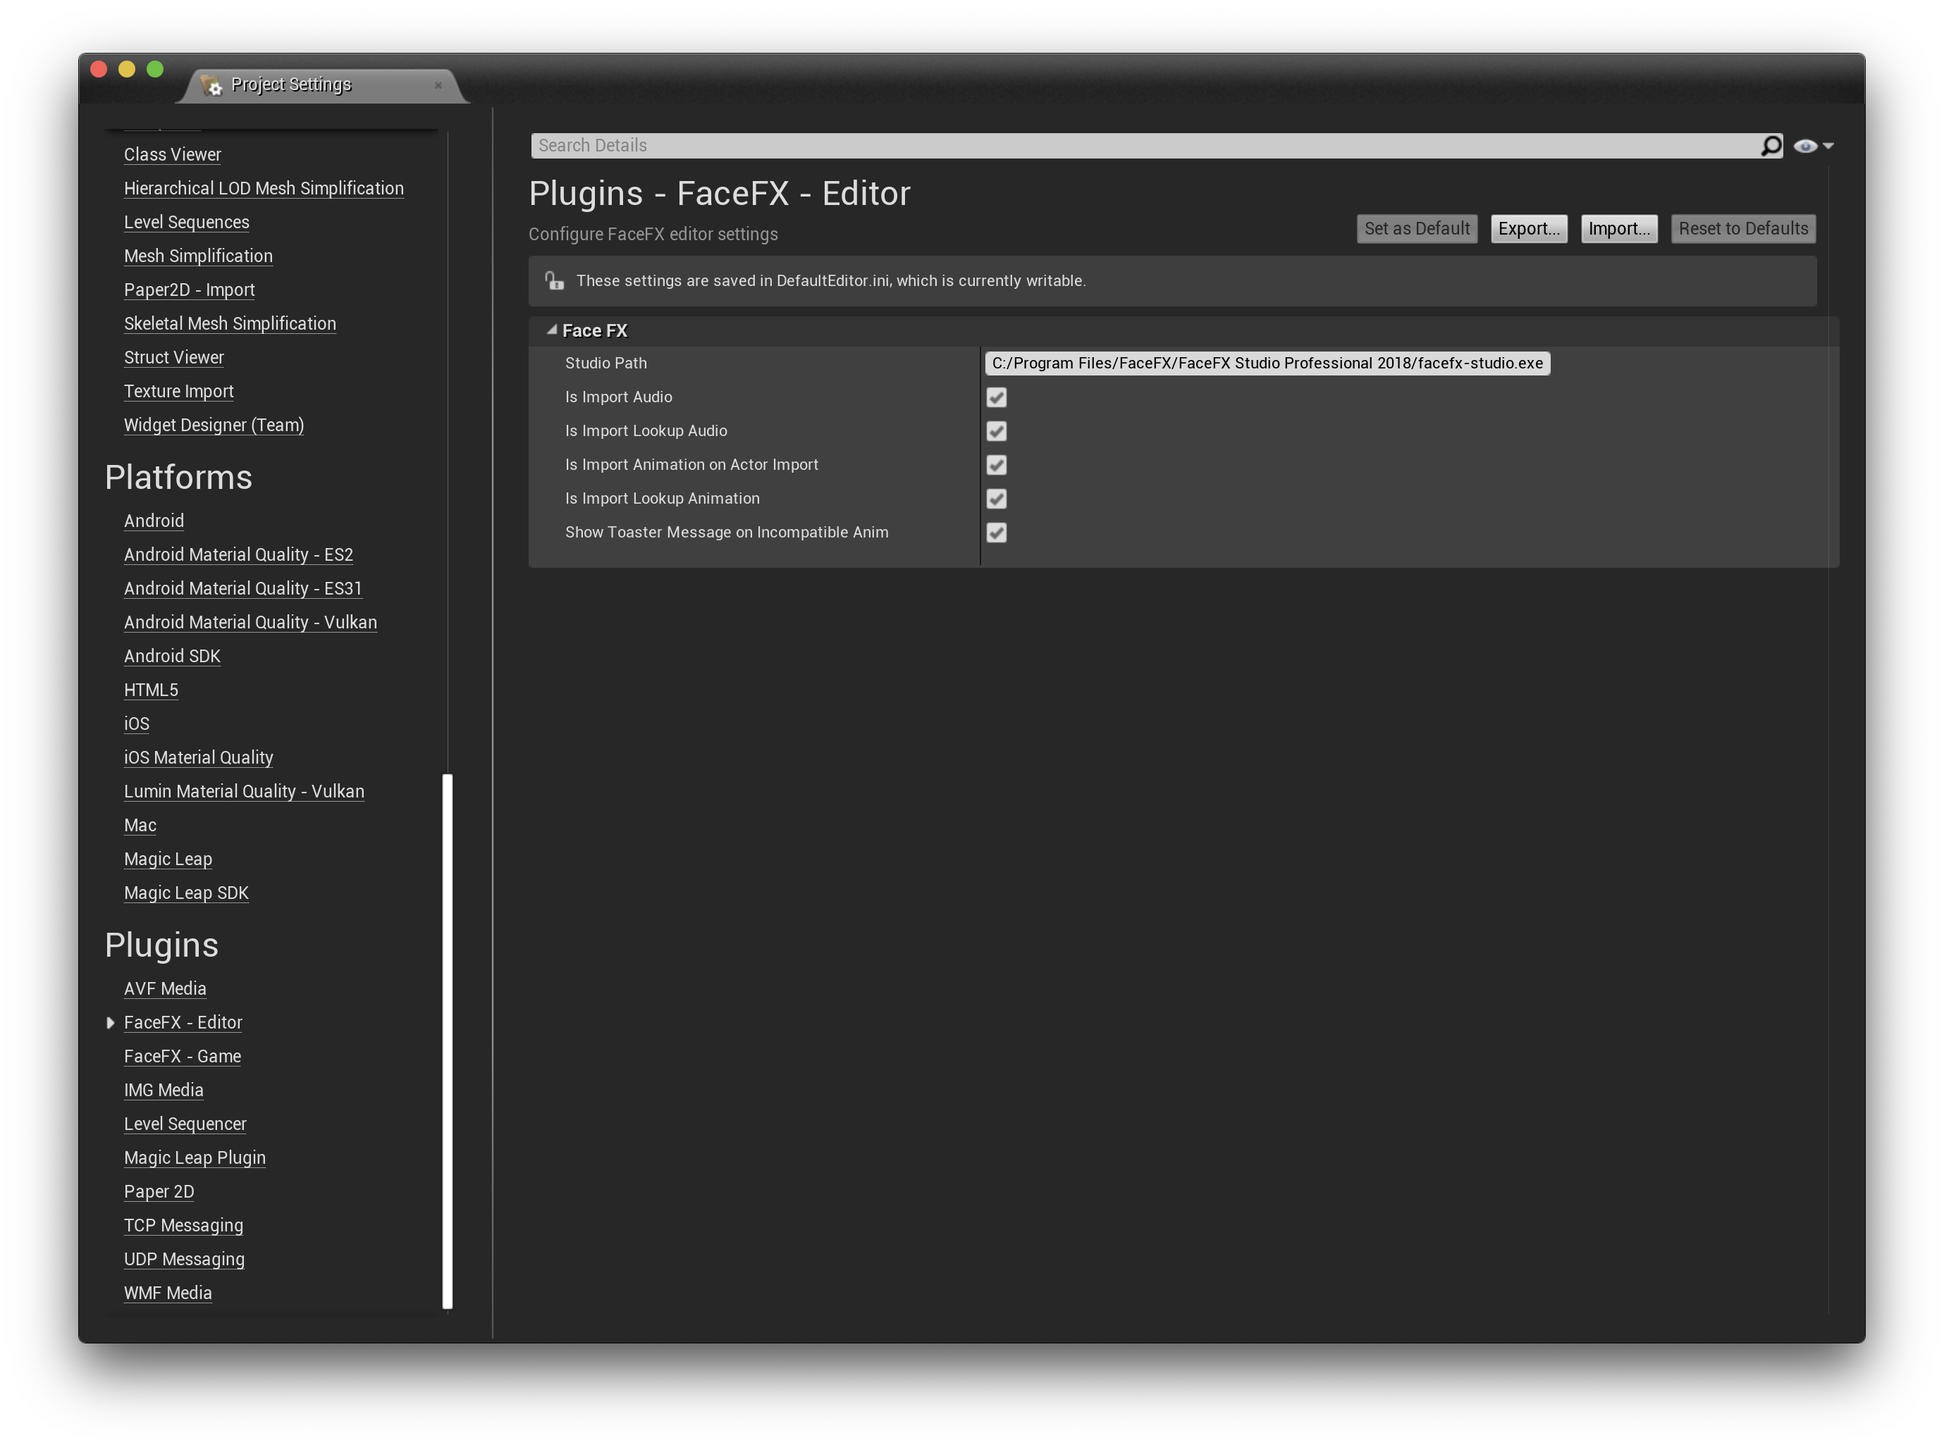
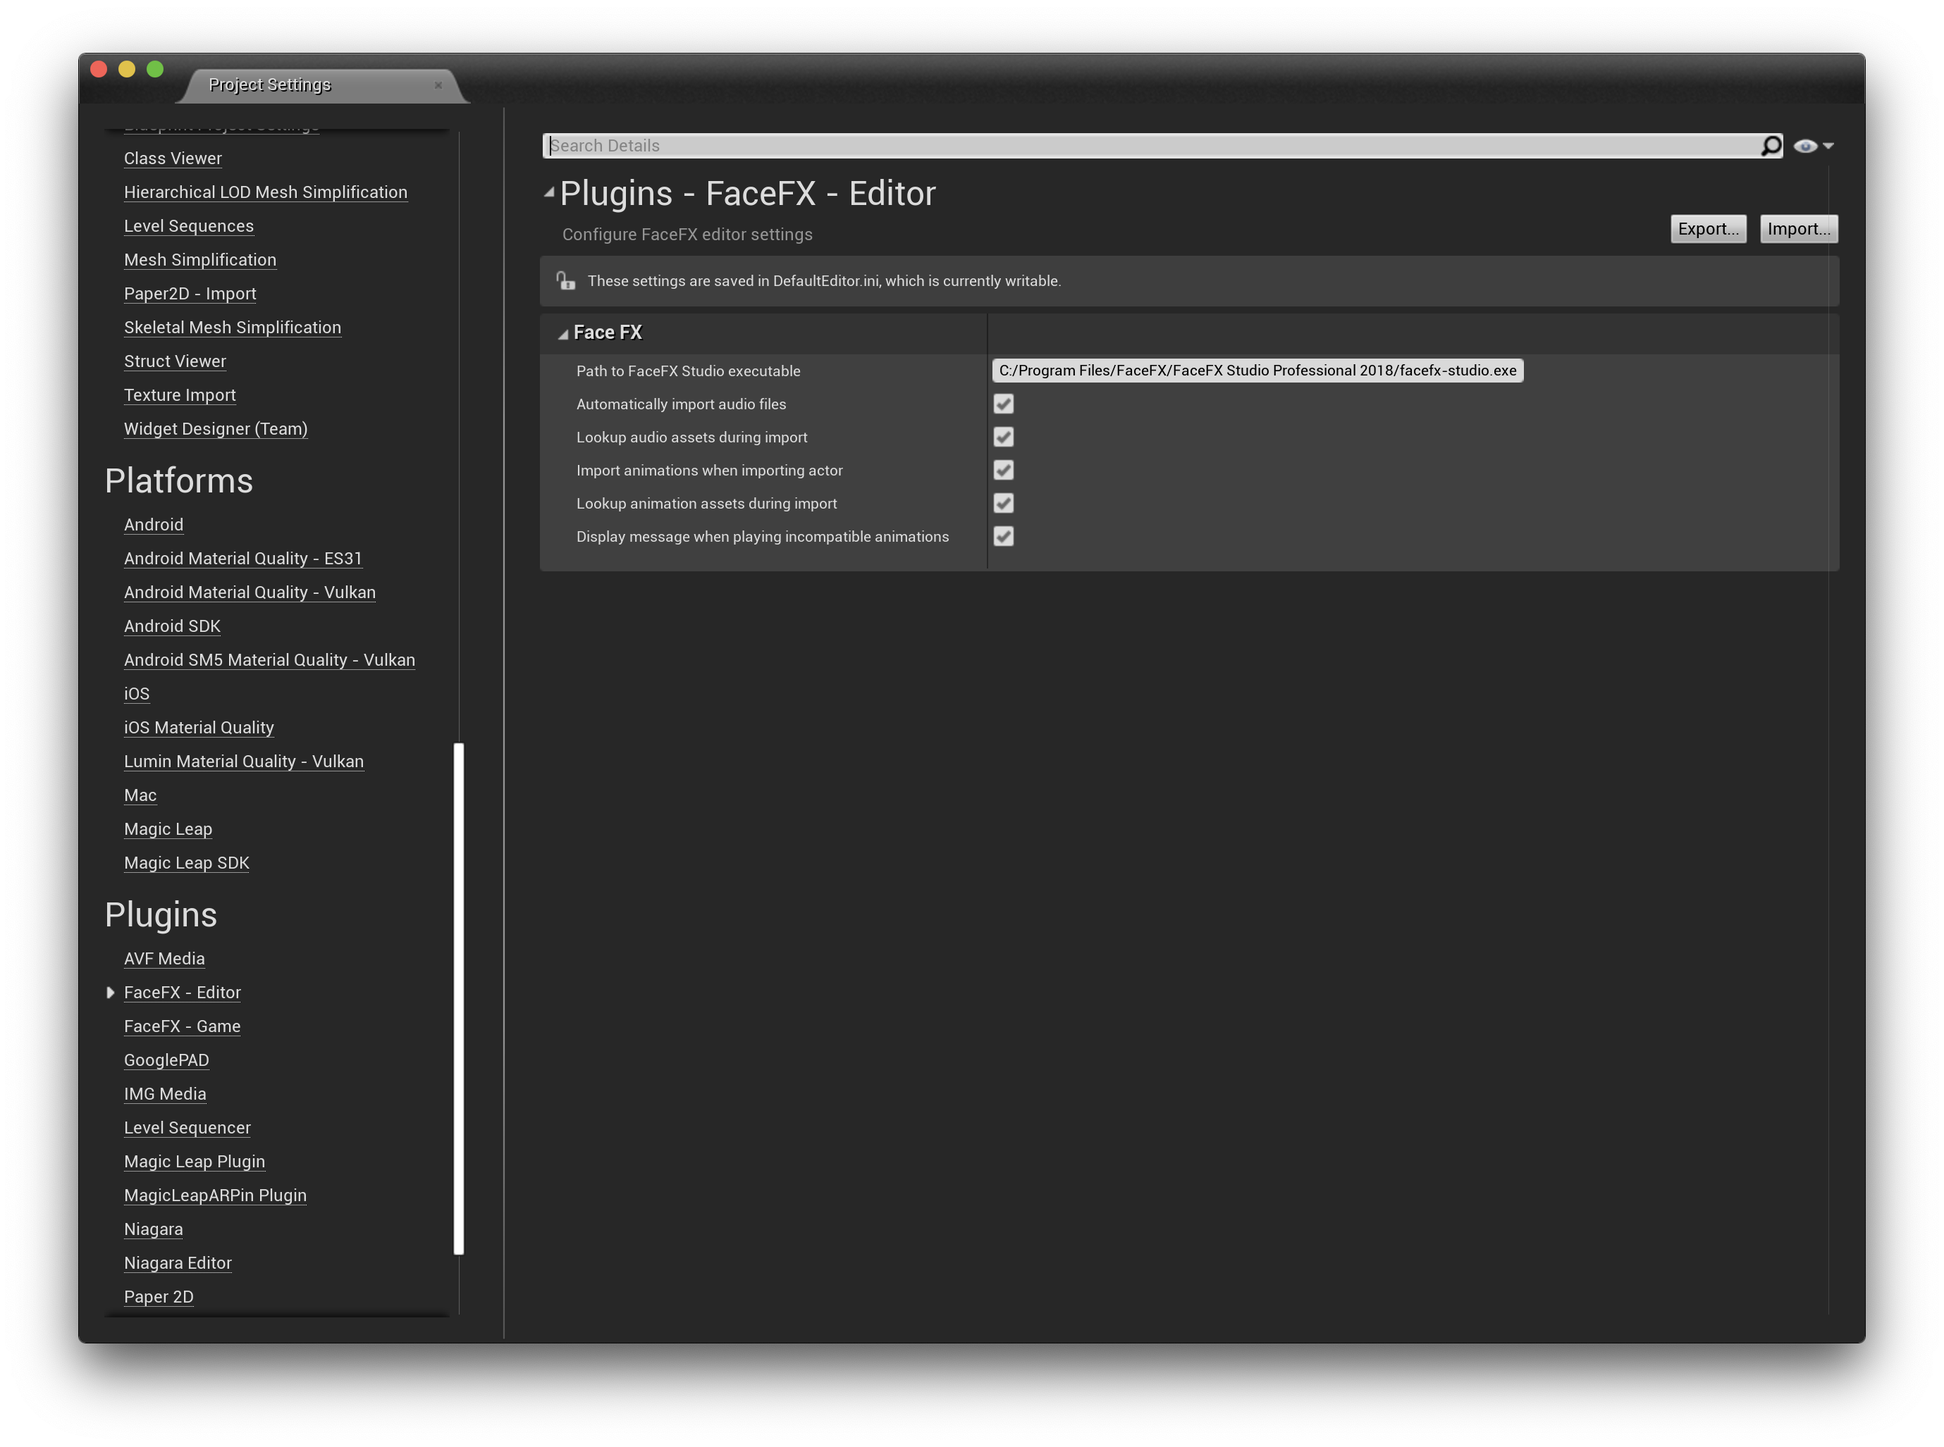
Fix display names
Unfortunately, redirecting UPROPERTY names appears to be broken and I
don't see any way to rename a UFUNCTION UPARAM in a backwards compatible
way via redirectors. So we have to live with the weird "Is Blah" names
in code, but this patch sets proper display names to give these things
better names in the UI.

diff --git a/Source/FaceFX/Classes/Animation/FaceFXComponent.h b/Source/FaceFX/Classes/Animation/FaceFXComponent.h
@@ -61,24 +61,24 @@ struct FACEFX_API FFaceFXEntry
 	UPROPERTY(Transient, BlueprintReadOnly, Category=FaceFX)
 	UFaceFXCharacter* Character;
 
-	/** */
+	/** Should only be enabled if Force Front XAxis was enabled when the Skeletal Mesh was imported. */
 	UPROPERTY(BlueprintReadWrite, EditAnywhere, Category=FaceFX)
 	uint8 bIsCompensateForForceFrontXAxis : 1;
 
-	/** Indicator that defines if the FaceFX character shall play the sound wave assigned to the FaceFX Animation asset automatically when this animation is getting played */
-	UPROPERTY(BlueprintReadWrite, EditAnywhere, Category=FaceFX)
+	/** Indicates whether or not the sound assigned to a FaceFX animation is automatically played when the animation is played. */
+	UPROPERTY(BlueprintReadWrite, EditAnywhere, Category=FaceFX, DisplayName="Automatically Play Sound")
 	uint8 bIsAutoPlaySound : 1;
 
-	/** Indicator if the morph targets driven by FaceFX tracks are disabled */
-	UPROPERTY(BlueprintReadOnly, EditAnywhere, Category=FaceFX)
+	/** Indicates whether or not FaceFX tracks will animate matched morph targets. */
+	UPROPERTY(BlueprintReadOnly, EditAnywhere, Category=FaceFX, DisplayName="Disable Morph Targets")
 	uint8 bIsDisableMorphTargets : 1;
 
-	/** Indicator if the material parameters driven by FaceFX tracks are disabled */
-	UPROPERTY(BlueprintReadOnly, EditAnywhere, Category = FaceFX)
+	/** Indicates or not FaceFX tracks will animate matched material parameters.. */
+	UPROPERTY(BlueprintReadOnly, EditAnywhere, Category = FaceFX, DisplayName="Disable Material Parameters")
 	uint8 bIsDisableMaterialParameters : 1;
-
-	/** Indicator if the events coming from the FaceFX runtime are ignored */
-	UPROPERTY(BlueprintReadOnly, EditAnywhere, Category = FaceFX)
+ 
+	/** Indicates whether or not FaceFX events are ignored. */
+	UPROPERTY(BlueprintReadOnly, EditAnywhere, Category = FaceFX, DisplayName="Ignore Events")
 	uint8 bIsIgnoreEvents : 1;
 
 	FORCEINLINE bool operator==(const USkeletalMeshComponent* InComp) const
@@ -105,19 +105,27 @@ public:
 	//~UObject
 
 	/**
-	* Setups a FaceFX character to a given skelmesh component
-	* @param SkelMeshComp The skelmesh component to setup the FaceFX character for
+	* Sets up a FaceFX character for a given skelmesh component
+	* @param SkelMeshComp The skelmesh component setting up the FaceFX character.
 	* @param AudioComponent The audio component to assign to the FaceFX character. Keep empty to use the first audio component found on the owning actor.
-	* @param Asset The FaceFX asset to use
-	* @param IsCompensateForForceFrontXAxis Indicator that compensates for the Force Front XAxis setting when importing FBX files
-	* @param IsAutoPlaySound Indicator that defines if the FaceFX character shall play the sound wave assigned to the FaceFX Animation asset automatically when this animation is getting played
-	* @param IsDisableMorphTargets Indicator if the use of available morph targets driven by FaceFX tracks shall be disabled
-	* @param IsDisableMaterialParameters Indicator if the use of available material parameters driven by FaceFX tracks shall be disabled
-	* @param IsIgnoreEvents Indicator if events coming from the FaceFX runtime are ignored
+	* @param Asset The FaceFX asset to use.
+	* @param IsCompensateForForceFrontXAxis Should only be enabled if Force Front XAxis was enabled when the Skeletal Mesh was imported.
+	* @param IsAutoPlaySound Indicates whether or not the sound assigned to a FaceFX animation is automatically played when the animation is played.
+	* @param IsDisableMorphTargets Indicates whether or not FaceFX tracks will animate matched morph targets.
+	* @param IsDisableMaterialParameters Indicates or not FaceFX tracks will animate matched material parameters.
+	* @param IsIgnoreEvents Indicates whether or not FaceFX events are ignored.
 	* @return True if succeeded, else false
 	*/
 	UFUNCTION(BlueprintCallable, Category=FaceFX, Meta=(IsAutoPlaySound=true, HidePin="Caller", DefaultToSelf="Caller"))
-	bool Setup(USkeletalMeshComponent* SkelMeshComp, UActorComponent* AudioComponent, const UFaceFXActor* Asset, bool IsCompensateForForceFrontXAxis, bool IsAutoPlaySound, bool IsDisableMorphTargets, bool IsDisableMaterialParameters, bool IsIgnoreEvents, const UObject* Caller = nullptr);
+	bool Setup(USkeletalMeshComponent* SkelMeshComp, 
+               UActorComponent* AudioComponent,
+			   const UFaceFXActor* Asset,
+			   UPARAM(DisplayName="Compensate For Force Front XAxis") bool IsCompensateForForceFrontXAxis, 
+			   UPARAM(DisplayName="Automatically Play Sound") bool IsAutoPlaySound,
+			   UPARAM(DisplayName="Disable Morph Targets") bool IsDisableMorphTargets, 
+			   UPARAM(DisplayName="Disable Material Parameters") bool IsDisableMaterialParameters, 
+			   UPARAM(DisplayName="Ignore Events") bool IsIgnoreEvents, 
+			   const UObject* Caller = nullptr);
 
 	/**
 	* Starts the playback of the given facial animation for a given skel mesh components character

diff --git a/Source/FaceFXEditor/Classes/FaceFXEditorConfig.h b/Source/FaceFXEditor/Classes/FaceFXEditorConfig.h
@@ -107,31 +107,31 @@ private:
 	/** The plugin folder path */
 	mutable FString PluginFolderPath;
 
-	/** The absolute path to the FaceFX Studio installation. */
-	UPROPERTY(config, EditAnywhere, Category = FaceFX)
+	/** The absolute path to the FaceFX Studio executable. */
+	UPROPERTY(config, EditAnywhere, Category = FaceFX, DisplayName="Path to FaceFX Studio executable")
 	FString StudioPath = "C:/Program Files/FaceFX/FaceFX Studio Professional 2018/facefx-studio.exe";
 
-	/* Indicates if the audio data(.wav files only) should be automatically imported during the FaceFX Animation import process. */
-	UPROPERTY(config, EditAnywhere, Category = FaceFX)
+	/* Indicates if the audio data (.wav files only) should be automatically imported during the FaceFX Animation import process. */
+	UPROPERTY(config, EditAnywhere, Category = FaceFX, DisplayName="Automatically import audio files")
 	bool bIsImportAudio = true;
 
 	/* Indicates if the import should search through all existing USoundWave assets and look for an asset that was generated with the linked sound source
-file(per FaceFX Animation).If such one is found it will be used instead of creating a new USoundWave asset for the.wav file.
-Note: This might affect performance heavily when there are a lot of USoundWave assets. */
-	UPROPERTY(config, EditAnywhere, Category = FaceFX)
+file (per FaceFX Animation). If one is found it will be used instead of creating a new USoundWave asset for the .wav file.
+Note: This might affect performance when there are a lot of USoundWave assets. */
+	UPROPERTY(config, EditAnywhere, Category = FaceFX, DisplayName="Lookup audio assets during import")
 	bool bIsImportLookupAudio = true;
 
-	/* Indicates if animations should be imported during FaceFX actor import.If set to false only the FaceFX Actor asset will be imported or updated. */
-	UPROPERTY(config, EditAnywhere, Category = FaceFX)
+	/* Indicates if animations should be imported during FaceFX actor import. If set to false only the FaceFX Actor asset will be imported or updated. */
+	UPROPERTY(config, EditAnywhere, Category = FaceFX, DisplayName="Import animations when importing actor")
 	bool bIsImportAnimationOnActorImport = true;
 
 	/* Indicates if the import should search through all existing UFaceFXAnimation assets and look for an asset that was generated with the linked
-.ffxanim source file.If such one is found it will be used instead of creating a new UFaceFXAnimation asset for the.ffxanim file.
-Note: This might affect performance heavily when there are a lot of UFaceFXAnimation assets. */
-	UPROPERTY(config, EditAnywhere, Category = FaceFX)
+.ffxanim source file. If one is found it will be used instead of creating a new UFaceFXAnimation asset for the .ffxanim file.
+Note: This might affect performance when there are a lot of UFaceFXAnimation assets. */
+	UPROPERTY(config, EditAnywhere, Category = FaceFX, DisplayName="Lookup animation assets during import")
 	bool bIsImportLookupAnimation = true;
 
-	/* Indicates if the editor should show a warning toaster message when a UFaceFXAnimation is attempted to be played on a UFaceFXCharacter with an incompatible FaceFX actor handle. */
-	UPROPERTY(config, EditAnywhere, Category = FaceFX)
+	/* Indicates if the editor should show a warning message when a UFaceFXAnimation is attempted to be played on an incompatible UFaceFXCharacter. */
+	UPROPERTY(config, EditAnywhere, Category = FaceFX, DisplayName="Display message when playing incompatible animations")
 	bool bShowToasterMessageOnIncompatibleAnim = true;
 };

diff --git a/Documentation/BlueprintNodes.md b/Documentation/BlueprintNodes.md
@@ -1,7 +1,7 @@
 Blueprint Nodes
 ===============
 
-The FaceFX UE4 Plugin provides serveral Blueprint nodes, which are described here.
+The FaceFX UE4 Plugin provides several Blueprint nodes, which are described here.
 
 All FaceFX Blueprint nodes require a **FaceFX Component** to be wired to their respective **Target** slots. The FaceFX Setup Blueprint node requires the **Skel Mesh Comp** slot to be wired with the **Skeletal Mesh Component** to animate. The **Skel Mesh Comp** is optional for the other FaceFX Blueprint nodes (this is so a single Blueprint can drive multiple FaceFX characters). If it is not supplied, the first one found is used.
 
@@ -20,15 +20,15 @@ The FaceFX Setup Blueprint node initializes the linked **FaceFX Component** with
 
 + The **Asset** property is required and should be set to the **FaceFXActor** asset to be used for animation.
 
-+ The **Is Compensate for Force Front XAxis** property should (only) be checked if your Skeletal Mesh was imported with the **Force Front XAxis** option selection.  Not keeping these settings in sync will result in FaceFX animations playing in the wrong coordinate system and can resemble an exploded face.
++ The **Compensate For Force Front XAxis** property should only be **checked** if **Force Front XAxis** was **checked** when the Skeletal Mesh was imported. Not keeping these settings in sync will result in FaceFX animations playing in the wrong coordinate system and can resemble an exploded face.
 
-+ The **Is Auto Play Sound** property is optional. When **checked**, the audio associated with the **FaceFXAnim** asset being played will automatically be started at the appropriate time.
++ The **Automatically Play Sound** property is optional. When **checked**, the audio associated with the **FaceFXAnim** asset being played will automatically be started at the appropriate time.
 
-+ The **Is Disable Morph Targets** property is optional. When **checked**, FaceFX will not animate any morph targets. When **unchecked**, any morph target on the character that has a matching target name in the specified **FaceFXActor** asset will be animated by FaceFX.
++ The **Disable Morph Targets** property is optional. When **checked**, FaceFX will not animate any morph targets. When **unchecked**, any morph target on the character that has a matching target name in the specified **FaceFXActor** asset will be animated by FaceFX.
 
-+ The **Is Disable Material Parameters** property is optional. When **checked**, FaceFX will not animate material parameters. When **unchecked**, any material parameter on the character that has a matching target name in the specified **FaceFXActor** asset will be animated by FaceFX.
++ The **Disable Material Parameters** property is optional. When **checked**, FaceFX will not animate material parameters. When **unchecked**, any material parameter on the character that has a matching target name in the specified **FaceFXActor** asset will be animated by FaceFX.
 
-+ The **Is Ignore Events** property is optional. When **checked**, [Events](Events.md) will be ignored.
++ The **Ignore Events** property is optional. When **checked**, [Events](Events.md) will be ignored.
 
 
 Play

diff --git a/Documentation/Configuration.md b/Documentation/Configuration.md
@@ -7,33 +7,33 @@ UnrealEd
 Editor
 ------
 
-##### Studio Path
+##### Path to FaceFX Studio executable
 
 The absolute path to the FaceFX Studio installation.
 
-##### Is Import Audio
+##### Automatically import audio files
 
 Indicates if the audio data (.wav files only) should be automatically imported during the FaceFX Animation import process.
 
-##### Is Import Lookup Audio
+##### Lookup audio assets during import
 
-Indicates if the import should search through all existing **USoundWave** assets and look for an asset that was generated with the linked sound source file (per FaceFX Animation). If such one is found it will be used instead of creating a new **USoundWave** asset for the .wav file.
+Indicates if the import should search through all existing **USoundWave** assets and look for an asset that was generated with the linked sound source file (per FaceFX Animation). If one is found it will be used instead of creating a new **USoundWave** asset for the .wav file.
 
-**Note:** This might affect performance heavily when there are a lot of **USoundWave** assets.
+**Note:** This might affect performance when there are a lot of **USoundWave** assets.
 
-##### Is Import Animation on Actor Import
+##### Import animations when importing actor
 
 Indicates if animations should be imported during FaceFX actor import. If set to false only the FaceFX Actor asset will be imported or updated.
 
-##### Is Import Lookup Animation
+##### Lookup animation assets during import
 
-Indicates if the import should search through all existing **UFaceFXAnimation** assets and look for an asset that was generated with the linked **.ffxanim** source file. If such one is found it will be used instead of creating a new **UFaceFXAnimation** asset for the **.ffxanim** file.
+Indicates if the import should search through all existing **UFaceFXAnimation** assets and look for an asset that was generated with the linked **.ffxanim** source file. If one is found it will be used instead of creating a new **UFaceFXAnimation** asset for the **.ffxanim** file.
 
-**Note:** This might affect performance heavily when there are a lot of **UFaceFXAnimation** assets.
+**Note:** This might affect performance when there are a lot of **UFaceFXAnimation** assets.
 
-##### Show Toaster Message on Incompatible Anim
+##### Display message when playing incompatible animations
 
-Indicates if the editor should show a warning toaster message when a **UFaceFXAnimation** is attempted to be played on a **UFaceFXCharacter** with an incompatible FaceFX actor handle.
+Indicates if the editor should show a warning message when a **UFaceFXAnimation** is attempted to be played on an incompatible **UFaceFXCharacter**.
 
 <img src="Images/PluginEditorSettings.png" width="640">
 

diff --git a/Documentation/Events.md b/Documentation/Events.md
@@ -1,9 +1,9 @@
 Events
 =======
 
-In-game actions can be triggered from animation events.  Each animation can trigger multiple events at different times with unique string payloads.  The string payloads are passed via Blueprint to trigger custom in-game systems.
+In-game actions can be triggered from animation events. Each animation can trigger multiple events at different times with unique string payloads. The string payloads are passed via Blueprint to trigger custom in-game systems.
 
-Events are created from the Events tab in FaceFX Studio.  While FaceFX Studio events can contain animation curves in addition to the event payload, all animation curves are baked into the parent animation by the compiler, leaving only the payload to be passed to an in-game system.
+Events are created from the Events tab in FaceFX Studio. While FaceFX Studio events can contain animation curves in addition to the event payload, all animation curves are baked into the parent animation by the compiler, leaving only the payload to be passed to an in-game system.
 
 Events were added in version 2 of the FaceFX Runtime, first integrated with UE4.26.
 

diff --git a/Documentation/Troubleshooting.md b/Documentation/Troubleshooting.md
@@ -13,8 +13,8 @@ Make sure the character's **Animation Blueprint** is referenced in the **Bluepri
 
 #### My character's face explodes when playing an animation
 
-Make sure the **Is Compensate for Force Front XAxis** setting on the FaceFX [Blueprint Node](BlueprintNodes.md) matches the skeletal mesh import setting.
+Make sure the **Compensate For Force Front XAxis** setting on the FaceFX [Blueprint Node](BlueprintNodes.md) matches the skeletal mesh import setting.
 
 #### All other issues
 
-Make sure there are no FaceFX warnings or errors in the log (launch the Unreal Editor with the **-Log** option). Also check the open issues in this repro. Otherwise, let us know, so we can add the issue!
+Make sure there are no FaceFX warnings or errors in the log (launch the Unreal Editor with the **-Log** option). Also check the open issues in this repo. Otherwise, let us know, so we can add the issue!
